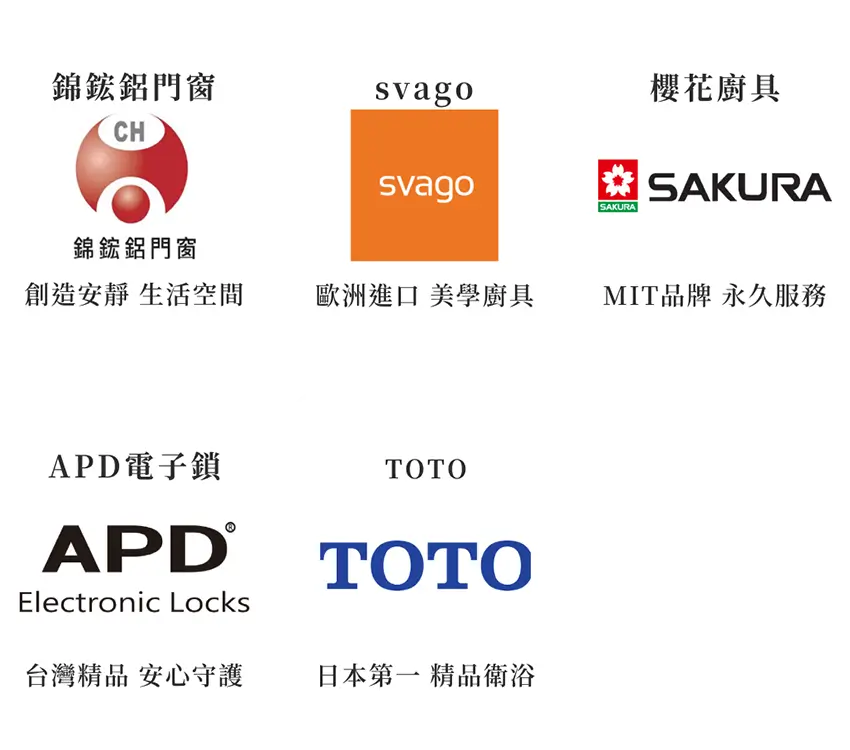
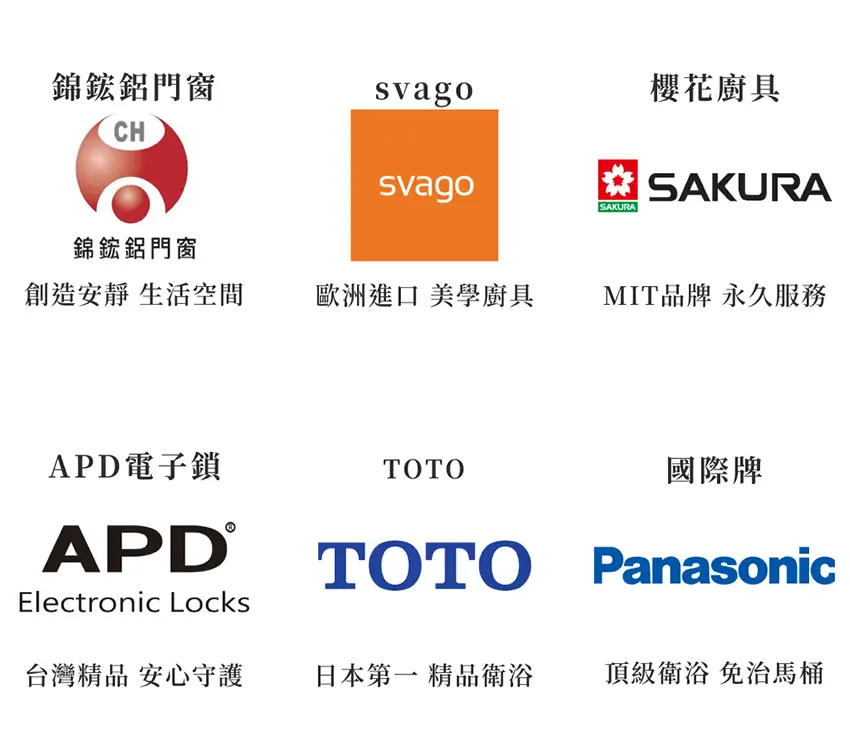
OK

diff --git a/src/section/s1.vue b/src/section/s1.vue
@@ -11,8 +11,9 @@
     <div class="bg1" data-aos="fade-up" data-aos-delay="0" >
       <img class="f1" src="./s1/f2.png" alt="" />
       <img class="f4" src="./s1/f1.png" alt="" />
-      <img class="b1" src="./s1/b1.png" alt="" />
-      <img class="b2" src="./s1/b2.png" alt="" />
+      <div class="b1"><img src="./s1/b1.svg" alt="" /></div>
+      <div class="b2"><img src="./s1/b22.png" alt="" /></div>
+      
 </div>
   <div class="txt">
     <img class="logo" src="./s1/logo.svg" alt="" data-aos="zoom-in" data-aos-delay="0" />
@@ -70,8 +71,30 @@ img{position: absolute;}
     transform: scaleX(-1)rotate(-20deg);
   }
 }
-.b1{left: size(160);top:size(424);width:size(250);}
-.b2{right: size(560);top:size(766);width:size(119);}
+.b1{left: size(260);top:size(400);width:size(300);position: absolute;
+  transform: rotate(35deg);
+img{width: 100%;
+  transform:translatex(-40%);
+  animation: an 5s alternate infinite;}
+}
+.b2{right: size(580);top:size(806);width:size(132);opacity: .6;position: absolute;
+  transform:rotate(-55deg)translate(3vw,-2vw);
+  animation: an4 5s alternate infinite;
+img{width: 100%;
+  animation: an3 2s ease-in-out alternate infinite;
+  transform:scaleX(.5);
+  transform-origin: 50% 100%;}
+}
+@keyframes an4 {
+  to{
+    transform:rotate(-55deg)translateY(0%);
+  }
+}
+@keyframes an3 {
+  70% {
+    transform: scaleX(1);
+  }
+}
 .txt{text-align: center;font-size:size(40); font-weight: 700;text-align: center;
 margin: 1em auto 0 auto;}
 .logo{width:16.1em;
@@ -116,8 +139,8 @@ margin: 1em auto 0 auto;}
 .f4{left: sizem(-50);bottom:sizem(0);width:sizem(150);transform: scaleX(-1)rotate(-20deg);
   filter: invert(0) sepia(100%) saturate(2000%) hue-rotate(340deg);
 }
-.b1{left: sizem(20);top:sizem(110);width:sizem(70);}
-.b2{right: sizem(70);top:sizem(450);width:sizem(50);}
+.b1{left: sizem(60);top:sizem(90);width:sizem(85);}
+.b2{right: sizem(70);top:sizem(500);width:sizem(60);}
 .txt{font-size:sizem(18);
   margin: 0em auto 0 auto;}
   }

diff --git a/src/section/s10.vue b/src/section/s10.vue
@@ -66,15 +66,16 @@ GreenWeb防霾紗窗是全台唯一使用銀離子抗菌技術紗網，透過杜
 <b>歐洲進口 廚具美學 Svago</b>
 svago源自歐洲的廚電美學品牌，為義大利文「享樂」之意，體驗歐洲獨有的慢活風尚，讓您享受廚房烹飪樂趣的最佳承諾。
 
-<b>MID品牌 永久服務 櫻花廚具</b>
-四大永久免費服務，蟬聯36年獲頒理想品牌冠軍寶座，成為實實在在無人可比的理想品牌三冠王。讓廚房與生活完美結合，為世界級系統廚具的領導品牌。<br>
-不僅連續27年蟬連消費者管理品牌的第一名，與客製化設計，打破傳統封閉空間形式，讓廚房與生活完美結合，為世界級系統廚具的領導品牌。
+<b>MIT品牌 永久服務 櫻花廚具</b>
+四大永久免費服務，蟬聯36年獲頒理想品牌冠軍寶座，成為實實在在無人可比的理想品牌三冠王。讓廚房與生活完美結合，為世界級系統廚具的領導品牌。
 
 <b>台灣精品 智能居家 APD</b>
 台灣頂尖團隊製造．鎖界精品，設計精密、安全性高，安心、用心，嚴密守護家人居家安全性與便利性。
 
 <b>日本第一 精品衛浴 TOTO</b>
 日本第一TOTO全自動馬桶，結合智慧洗淨、高能節水、水力發電、自動感應、龍捲噴式洗淨、奈米防污抗菌等十大智能尖端科技，居家享受全面升級。
+<b>日本百年 信譽品牌 Panasonic</b>
+創立於1963年，曾榮獲5座白金獎和7座金獎，更連續22年總獎項數累計高達133項，超越台灣區所有獲獎品牌，也是台灣消費者最信賴家電品牌！
 
         </div>
       </div>

diff --git a/src/section/s4.vue b/src/section/s4.vue
@@ -128,20 +128,16 @@ const splide = ref()
 
 const imgs = [
   {
-    img: new URL("../section/s4/01.jpg", import.meta.url).href,
-    caption: "天乙公園",
+    img: new URL("../section/s5/1.webp", import.meta.url).href,
+    caption: "成州市場",
   },
   {
-    img: new URL("../section/s4/02.jpg", import.meta.url).href,
-    caption: "五股體健防災公園",
+    img: new URL("../section/s5/2.webp", import.meta.url).href,
+    caption: "成州市場",
   },
   {
-    img: new URL("../section/s4/03.jpg", import.meta.url).href,
-    caption: "洲子洋公園",
-  },
-  {
-    img: new URL("../section/s4/04.jpg", import.meta.url).href,
-    caption: "大都會公園",
+    img: new URL("../section/s5/3.webp", import.meta.url).href,
+    caption: "成泰路商圈",
   },
 ]
 </script>

diff --git a/src/section/s5.vue b/src/section/s5.vue
@@ -121,16 +121,20 @@ const splide = ref()
 
 const imgs = [
   {
-    img: new URL("../section/s5/1.webp", import.meta.url).href,
-    caption: "成州市場",
+    img: new URL("../section/s4/01.jpg", import.meta.url).href,
+    caption: "天乙公園",
   },
   {
-    img: new URL("../section/s5/2.webp", import.meta.url).href,
-    caption: "成州市場",
+    img: new URL("../section/s4/02.jpg", import.meta.url).href,
+    caption: "五股體健防災公園",
   },
   {
-    img: new URL("../section/s5/3.webp", import.meta.url).href,
-    caption: "成泰路商圈",
+    img: new URL("../section/s4/03.jpg", import.meta.url).href,
+    caption: "洲子洋公園",
+  },
+  {
+    img: new URL("../section/s4/04.jpg", import.meta.url).href,
+    caption: "大都會公園",
   },
 ]
 </script>
